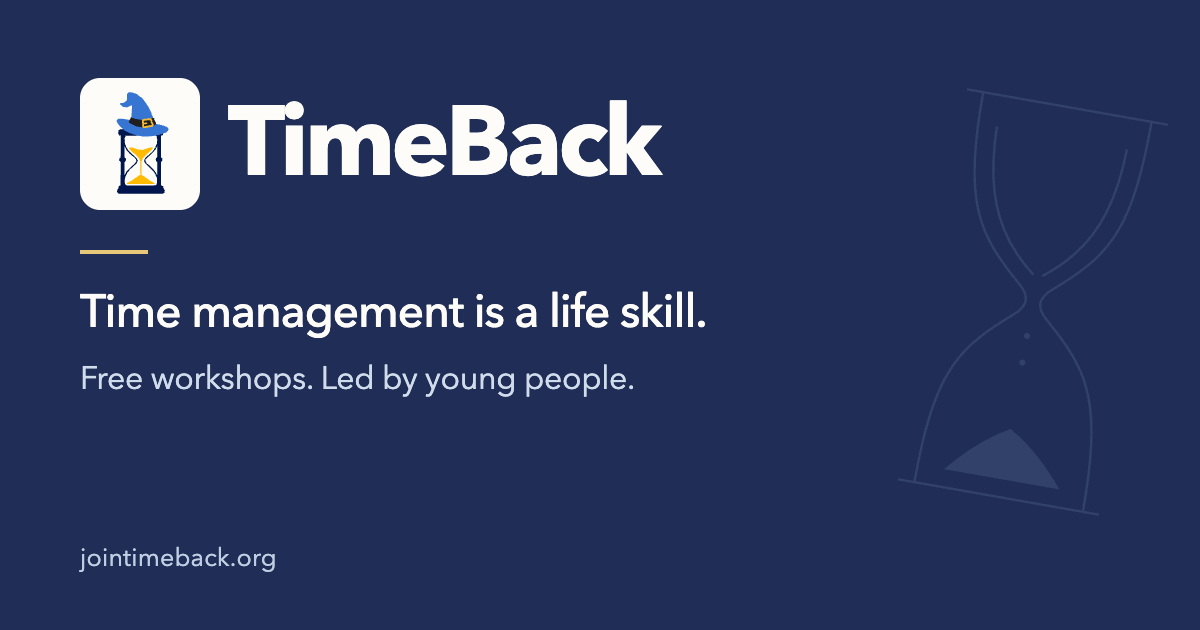
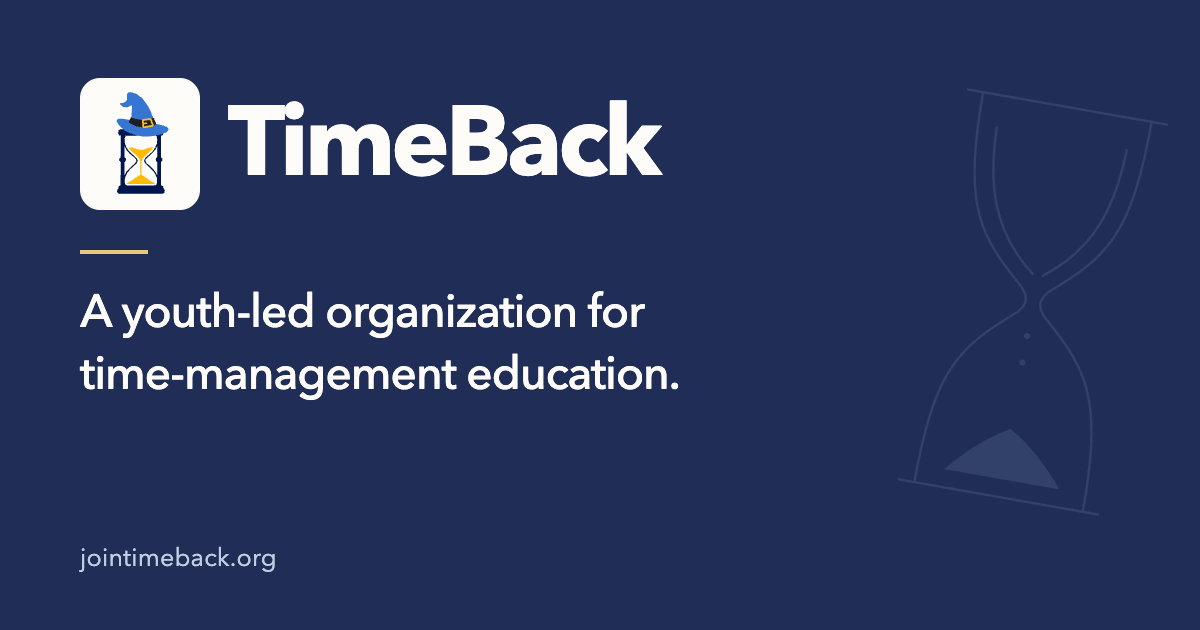
Use organizational identity in homepage link preview

Changed region(s): [[0.0617, 0.4524, 0.5858, 0.5429], [0.0617, 0.573, 0.555, 0.6333]]

diff --git a/index.html b/index.html
@@ -1,5 +1,5 @@
 <!doctype html>
-<html lang="en"><head><meta charset="utf-8"><meta name="viewport" content="width=device-width, initial-scale=1"><meta name="robots" content="index,follow,max-image-preview:large"><title>TimeBack Organization</title><meta name="description" content="Helping young people take ownership of their time through free workshops, curriculum and coaching for student leaders."><meta name="theme-color" content="#202e57"><meta property="og:title" content="TimeBack Organization"><meta property="og:description" content="Helping young people take ownership of their time through free workshops, curriculum and coaching for student leaders."><meta property="og:type" content="website"><link rel="icon" type="image/svg+xml" href="/assets/timeback-logo.svg"><link rel="stylesheet" href="/assets/site.css?v=0bfa81cda0ab"><script src="/assets/site.js?v=d495cea66d2d" defer></script><meta property="og:site_name" content="TimeBack"><meta property="og:locale" content="en_US"><meta property="og:image" content="https://jointimeback.org/assets/social/home-brand.png"><meta property="og:image:width" content="1200"><meta property="og:image:height" content="630"><meta property="og:image:type" content="image/png"><meta property="og:image:alt" content="TimeBack. Time management is a life skill. Free workshops. Led by young people. jointimeback.org"><meta name="twitter:card" content="summary_large_image"><meta name="twitter:title" content="TimeBack Organization"><meta name="twitter:description" content="Helping young people take ownership of their time through free workshops, curriculum and coaching for student leaders."><meta name="twitter:image" content="https://jointimeback.org/assets/social/home-brand.png"><meta name="twitter:image:alt" content="TimeBack. Time management is a life skill. Free workshops. Led by young people. jointimeback.org"><link rel="icon" type="image/png" sizes="32x32" href="/assets/icons/favicon-32.png"><link rel="apple-touch-icon" sizes="180x180" href="/assets/icons/apple-touch-icon.png"><link rel="canonical" href="https://jointimeback.org/"><meta property="og:url" content="https://jointimeback.org/"><script type="application/ld+json">{"@context": "https://schema.org", "@graph": [{"@type": "Organization", "@id": "https://jointimeback.org/#organization", "name": "TimeBack", "url": "https://jointimeback.org/", "email": "zackaryxu@gmail.com", "logo": "https://jointimeback.org/assets/icons/organization.png"}, {"@type": "WebSite", "@id": "https://jointimeback.org/#website", "url": "https://jointimeback.org/", "name": "TimeBack", "publisher": {"@id": "https://jointimeback.org/#organization"}, "inLanguage": "en"}, {"@type": "WebPage", "@id": "https://jointimeback.org/#webpage", "url": "https://jointimeback.org/", "name": "TimeBack Organization", "description": "Helping young people take ownership of their time through free workshops, curriculum and coaching for student leaders.", "isPartOf": {"@id": "https://jointimeback.org/#website"}, "about": {"@id": "https://jointimeback.org/#organization"}, "inLanguage": "en"}]}</script></head>
+<html lang="en"><head><meta charset="utf-8"><meta name="viewport" content="width=device-width, initial-scale=1"><meta name="robots" content="index,follow,max-image-preview:large"><title>TimeBack Organization</title><meta name="description" content="Helping young people take ownership of their time through free workshops, curriculum and coaching for student leaders."><meta name="theme-color" content="#202e57"><meta property="og:title" content="TimeBack Organization"><meta property="og:description" content="Helping young people take ownership of their time through free workshops, curriculum and coaching for student leaders."><meta property="og:type" content="website"><link rel="icon" type="image/svg+xml" href="/assets/timeback-logo.svg"><link rel="stylesheet" href="/assets/site.css?v=0bfa81cda0ab"><script src="/assets/site.js?v=d495cea66d2d" defer></script><meta property="og:site_name" content="TimeBack"><meta property="og:locale" content="en_US"><meta property="og:image" content="https://jointimeback.org/assets/social/home-brand.png"><meta property="og:image:width" content="1200"><meta property="og:image:height" content="630"><meta property="og:image:type" content="image/png"><meta property="og:image:alt" content="TimeBack. A youth-led organization for time-management education. jointimeback.org"><meta name="twitter:card" content="summary_large_image"><meta name="twitter:title" content="TimeBack Organization"><meta name="twitter:description" content="Helping young people take ownership of their time through free workshops, curriculum and coaching for student leaders."><meta name="twitter:image" content="https://jointimeback.org/assets/social/home-brand.png"><meta name="twitter:image:alt" content="TimeBack. A youth-led organization for time-management education. jointimeback.org"><link rel="icon" type="image/png" sizes="32x32" href="/assets/icons/favicon-32.png"><link rel="apple-touch-icon" sizes="180x180" href="/assets/icons/apple-touch-icon.png"><link rel="canonical" href="https://jointimeback.org/"><meta property="og:url" content="https://jointimeback.org/"><script type="application/ld+json">{"@context": "https://schema.org", "@graph": [{"@type": "Organization", "@id": "https://jointimeback.org/#organization", "name": "TimeBack", "url": "https://jointimeback.org/", "email": "zackaryxu@gmail.com", "logo": "https://jointimeback.org/assets/icons/organization.png"}, {"@type": "WebSite", "@id": "https://jointimeback.org/#website", "url": "https://jointimeback.org/", "name": "TimeBack", "publisher": {"@id": "https://jointimeback.org/#organization"}, "inLanguage": "en"}, {"@type": "WebPage", "@id": "https://jointimeback.org/#webpage", "url": "https://jointimeback.org/", "name": "TimeBack Organization", "description": "Helping young people take ownership of their time through free workshops, curriculum and coaching for student leaders.", "isPartOf": {"@id": "https://jointimeback.org/#website"}, "about": {"@id": "https://jointimeback.org/#organization"}, "inLanguage": "en"}]}</script></head>
 <body class="page-home"><a class="skip-link" href="#main">Skip to content</a>
 <header class="site-header"><div class="header-inner"><a class="brand" href="/" aria-label="TimeBack home"><img src="/assets/timeback-logo.svg" width="40" height="48" alt="">TimeBack</a><nav class="desktop-nav" aria-label="Main navigation"><a href="/about/">Our Team</a><a href="/work/">Community Highlights</a><details class="nav-group"><summary>For Organizations<span class="nav-chevron" aria-hidden="true"></span></summary><div class="nav-submenu"><a href="/host/">Work with TimeBack</a><a href="/approach/">Our Approach</a></div></details><a href="/chapters/" class="nav-cta">Get Involved</a></nav><details class="mobile-menu"><summary>Menu</summary><nav aria-label="Mobile navigation"><a href="/about/">Our Team</a><a href="/work/">Community Highlights</a><details class="nav-group"><summary>For Organizations<span class="nav-chevron" aria-hidden="true"></span></summary><div class="nav-submenu"><a href="/host/">Work with TimeBack</a><a href="/approach/">Our Approach</a></div></details><a href="/chapters/" class="nav-cta">Get Involved</a></nav></details></div></header>
 <main id="main"><section class="organization-intro wrap" aria-labelledby="organization-name">

diff --git a/404.html b/404.html
@@ -1,5 +1,5 @@
 <!doctype html>
-<html lang="en"><head><meta charset="utf-8"><meta name="viewport" content="width=device-width, initial-scale=1"><meta name="robots" content="noindex,follow"><title>Page not found · TimeBack</title><meta name="description" content="Find your way back to TimeBack."><meta name="theme-color" content="#202e57"><meta property="og:title" content="Page not found · TimeBack"><meta property="og:description" content="Find your way back to TimeBack."><meta property="og:type" content="website"><link rel="icon" type="image/svg+xml" href="/assets/timeback-logo.svg"><link rel="stylesheet" href="/assets/site.css?v=0bfa81cda0ab"><script src="/assets/site.js?v=d495cea66d2d" defer></script><meta property="og:site_name" content="TimeBack"><meta property="og:locale" content="en_US"><meta property="og:image" content="https://jointimeback.org/assets/social/home-brand.png"><meta property="og:image:width" content="1200"><meta property="og:image:height" content="630"><meta property="og:image:type" content="image/png"><meta property="og:image:alt" content="TimeBack. Time management is a life skill. Free workshops. Led by young people. jointimeback.org"><meta name="twitter:card" content="summary_large_image"><meta name="twitter:title" content="Page not found · TimeBack"><meta name="twitter:description" content="Find your way back to TimeBack."><meta name="twitter:image" content="https://jointimeback.org/assets/social/home-brand.png"><meta name="twitter:image:alt" content="TimeBack. Time management is a life skill. Free workshops. Led by young people. jointimeback.org"><link rel="icon" type="image/png" sizes="32x32" href="/assets/icons/favicon-32.png"><link rel="apple-touch-icon" sizes="180x180" href="/assets/icons/apple-touch-icon.png"></head>
+<html lang="en"><head><meta charset="utf-8"><meta name="viewport" content="width=device-width, initial-scale=1"><meta name="robots" content="noindex,follow"><title>Page not found · TimeBack</title><meta name="description" content="Find your way back to TimeBack."><meta name="theme-color" content="#202e57"><meta property="og:title" content="Page not found · TimeBack"><meta property="og:description" content="Find your way back to TimeBack."><meta property="og:type" content="website"><link rel="icon" type="image/svg+xml" href="/assets/timeback-logo.svg"><link rel="stylesheet" href="/assets/site.css?v=0bfa81cda0ab"><script src="/assets/site.js?v=d495cea66d2d" defer></script><meta property="og:site_name" content="TimeBack"><meta property="og:locale" content="en_US"><meta property="og:image" content="https://jointimeback.org/assets/social/home-brand.png"><meta property="og:image:width" content="1200"><meta property="og:image:height" content="630"><meta property="og:image:type" content="image/png"><meta property="og:image:alt" content="TimeBack. A youth-led organization for time-management education. jointimeback.org"><meta name="twitter:card" content="summary_large_image"><meta name="twitter:title" content="Page not found · TimeBack"><meta name="twitter:description" content="Find your way back to TimeBack."><meta name="twitter:image" content="https://jointimeback.org/assets/social/home-brand.png"><meta name="twitter:image:alt" content="TimeBack. A youth-led organization for time-management education. jointimeback.org"><link rel="icon" type="image/png" sizes="32x32" href="/assets/icons/favicon-32.png"><link rel="apple-touch-icon" sizes="180x180" href="/assets/icons/apple-touch-icon.png"></head>
 <body class="page-404"><a class="skip-link" href="#main">Skip to content</a>
 <header class="site-header"><div class="header-inner"><a class="brand" href="/" aria-label="TimeBack home"><img src="/assets/timeback-logo.svg" width="40" height="48" alt="">TimeBack</a><nav class="desktop-nav" aria-label="Main navigation"><a href="/about/">Our Team</a><a href="/work/">Community Highlights</a><details class="nav-group"><summary>For Organizations<span class="nav-chevron" aria-hidden="true"></span></summary><div class="nav-submenu"><a href="/host/">Work with TimeBack</a><a href="/approach/">Our Approach</a></div></details><a href="/chapters/" class="nav-cta">Get Involved</a></nav><details class="mobile-menu"><summary>Menu</summary><nav aria-label="Mobile navigation"><a href="/about/">Our Team</a><a href="/work/">Community Highlights</a><details class="nav-group"><summary>For Organizations<span class="nav-chevron" aria-hidden="true"></span></summary><div class="nav-submenu"><a href="/host/">Work with TimeBack</a><a href="/approach/">Our Approach</a></div></details><a href="/chapters/" class="nav-cta">Get Involved</a></nav></details></div></header>
 <main id="main"><header class="page-intro wrap"><h1>Page not found</h1><p class="lead">This page may have moved. Explore TimeBack or get in touch with our team.</p><div class="action-row"><a class="button" href="/">Back to TimeBack</a><a class="text-link" href="mailto:zackaryxu@gmail.com?subject=TimeBack%20inquiry&amp;body=Hi%20Zackary%2C%0D%0A%0D%0AI%20came%20across%20the%20TimeBack%20website%20and%20would%20like%20to%20learn%20more.%20Could%20we%20connect%3F%0D%0A%0D%0AThanks%21">Contact TimeBack</a></div></header></main>
